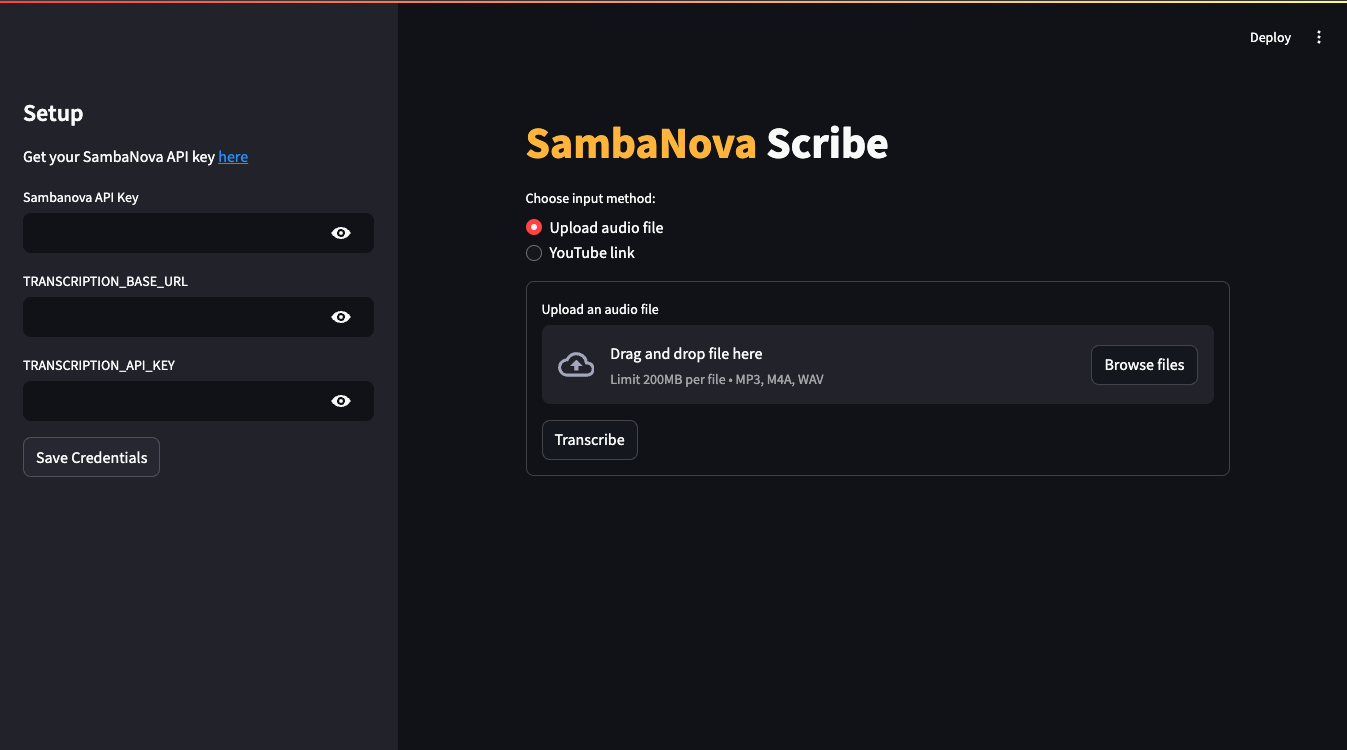
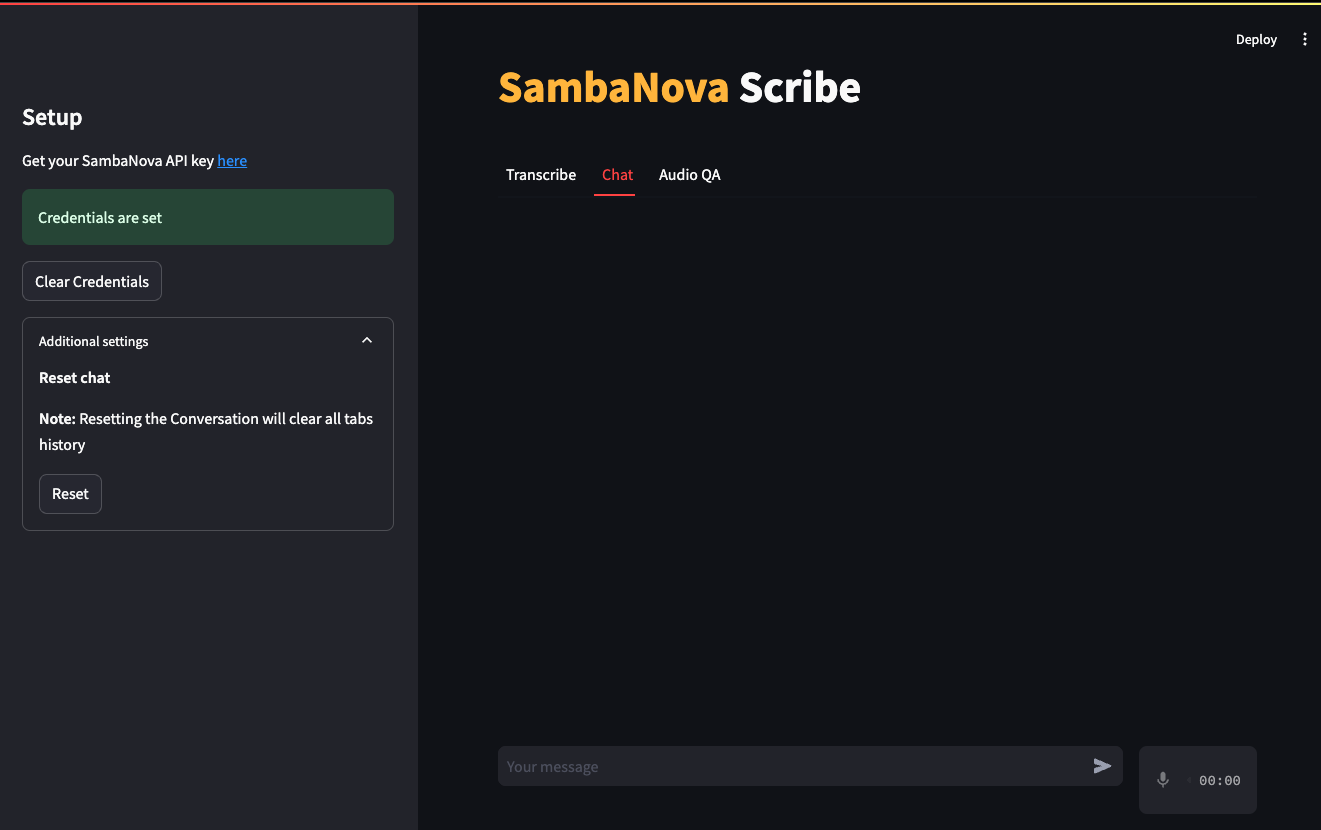
update scribe readme

diff --git a/sambanova_scribe/README.md b/sambanova_scribe/README.md
@@ -9,8 +9,6 @@
 
 Questions? Just <a href="https://discord.gg/54bNAqRw" target="_blank">message us</a> on Discord <a href="https://discord.gg/54bNAqRw" target="_blank"><img src="https://github.com/sambanova/ai-starter-kit/assets/150964187/aef53b52-1dc0-4cbf-a3be-55048675f583" alt="Discord" width="22"/></a> or <a href="https://github.com/sambanova/ai-starter-kit/issues/new/choose" target="_blank">create an issue</a> in GitHub. We're happy to help live!
 
-Table of Contents:
-
 <!-- TOC -->
 
 - [SambaNova scribe](#sambanova-scribe)
@@ -19,10 +17,20 @@ Table of Contents:
     - [Clone this repository](#clone-this-repository)
     - [Install System Dependencies](#install-system-dependencies)
     - [Set up the models, environment variables and config file](#set-up-the-models-environment-variables-and-config-file)
-        - [Set up the transcription model](#set-up-the-transcription-model)
+        - [Set up the audio model](#set-up-the-audio-model)
         - [Set up the generative model](#set-up-the-generative-model)
 - [Deploy the starter kit GUI](#deploy-the-starter-kit-gui)
 - [Use the starter kit](#use-the-starter-kit)
+    - [Transcribe:](#transcribe)
+    - [Chat](#chat)
+    - [Audio QA](#audio-qa)
+- [Customizing the starter kit](#customizing-the-starter-kit)
+    - [Audio model params](#audio-model-params)
+    - [Generation model parameters](#generation-model-parameters)
+            - [Experiment with prompt engineering](#experiment-with-prompt-engineering)
+- [Third-party tools and data sources](#third-party-tools-and-data-sources)
+
+<!-- /TOC -->
 - [Customizing the starter kit](#customizing-the-starter-kit)
     - [Transcription params](#transcription-params)
     - [Generation model parameters](#generation-model-parameters)
@@ -69,9 +77,9 @@ this kit requires you to have installed in your system ffmpeg:
 
 ## Set up the models, environment variables and config file
 
-### Set up the transcription model
+### Set up the audio model
 
-The next step is to set up your environment variables to use one of the transcription models available from SambaNova. You can obtain a free API key through SambaNova Cloud.
+The next step is to set up your environment variables to use the Qwen2 audio model available from SambaNova. You can obtain a free API key through SambaNova Cloud.
 
 - **SambaNova Cloud**: To set up your environment variables.
 
@@ -83,8 +91,8 @@ To integrate SambaNova Cloud Transcription models with this AI starter kit, upda
 - Enter the transcription SambaNova Cloud API url and key in the `.env` file, for example:
 
 ```bash
-TRANSCRIPTION_BASE_URL = "https://api.sambanova.ai/v1"
-TRANSCRIPTION_API_KEY = "456789abcdef0123456789abcdef0123"
+QWEN2_BASE_URL = "https://api.sambanova.ai/v1"
+QWEN2_API_KEY = "456789abcdef0123456789abcdef0123"
 ```
 
 ### Set up the generative model
@@ -117,25 +125,57 @@ After deploying the starter kit you see the following user interface:
 
 ![capture of sambanova scribe demo](./docs/sambanova_scribe_app.png)
 
-# Use the starter kit 
+# Use the starter kit
 
 After you've deployed the GUI, you can use the starter kit. Follow these steps:
 
-1. Depending if you have set your env variables you will be prompted or not to set them in the set up bar.
+Depending if you have set your env variables you will be prompted or not to set them in the set up bar.
+
+The kit has 3 different interaction methods, you can select in the top tabs:
+
+## Transcribe:
+
+This interaction method allows you to transcribe and summarize audios from Youtube videos or local sources.
+
+1. Select the Transcribe tab in the main panel top tab selector
 
 2. In the main panel select the input method either a youtube link or a file.
+
     > Audios should be mp3, mp4 or wav format
+
     > Either from youtube download or audio file can not exceed 25MB
 
-3. Click on the Transcribe button this will download the youtube audio or upload your file and generate the transcription of the audio
+2. Click on the Transcribe button this will download the youtube audio or upload your file and generate the transcription of the audio
 
-4. Click on the create summary button to get a bullet point summary of the recording
+3. Click on the create summary button to get a bullet point summary of the recording
+
+## Chat
+
+this interaction method allows you to have a multiturn conversation using both recorded audio inputs or text messages with the model
+
+1. Select the Chat tab in the main panel top tab selector
+
+2. Record or write a message in the chat input
+
+> you can reset the conversation history pressing reset button in the setup bar
+
+## Audio QA
+
+This interaction method allows you upload a local audio and do Question-Answering over the audio, for this the input audio is transcribed and also query using the audio model, then the transcription and intermediate response of the audio model are used to generate a final answer using the llm model.
+
+1. Select the Audio QA tab in the main panel top tab selector
+
+2. Upload the audio to query in the main panel
+
+3. Start queringn the audio using the chat input 
+
+> You can reset the conversation history pressing reset button in the setup bar
 
 # Customizing the starter kit
 
 You can further customize the starter kit based on the use case.
 
-## Transcription params
+## Audio model params
 
 The transcription parameters can be customized in the [config.yaml](./config.yaml) file, the the `audio_model` section you can change the `model` you want to use to transcribe, the `temperature` and the language.
 
@@ -162,6 +202,12 @@ You can make modifications to the prompt template in the following file:
 
 ```
     file: prompts/summary.yaml
+```
+
+Also you can check at the audio model chat prompts defined in:
+
+```
+    file: src/scribe.py
 ```
 
 # Third-party tools and data sources
